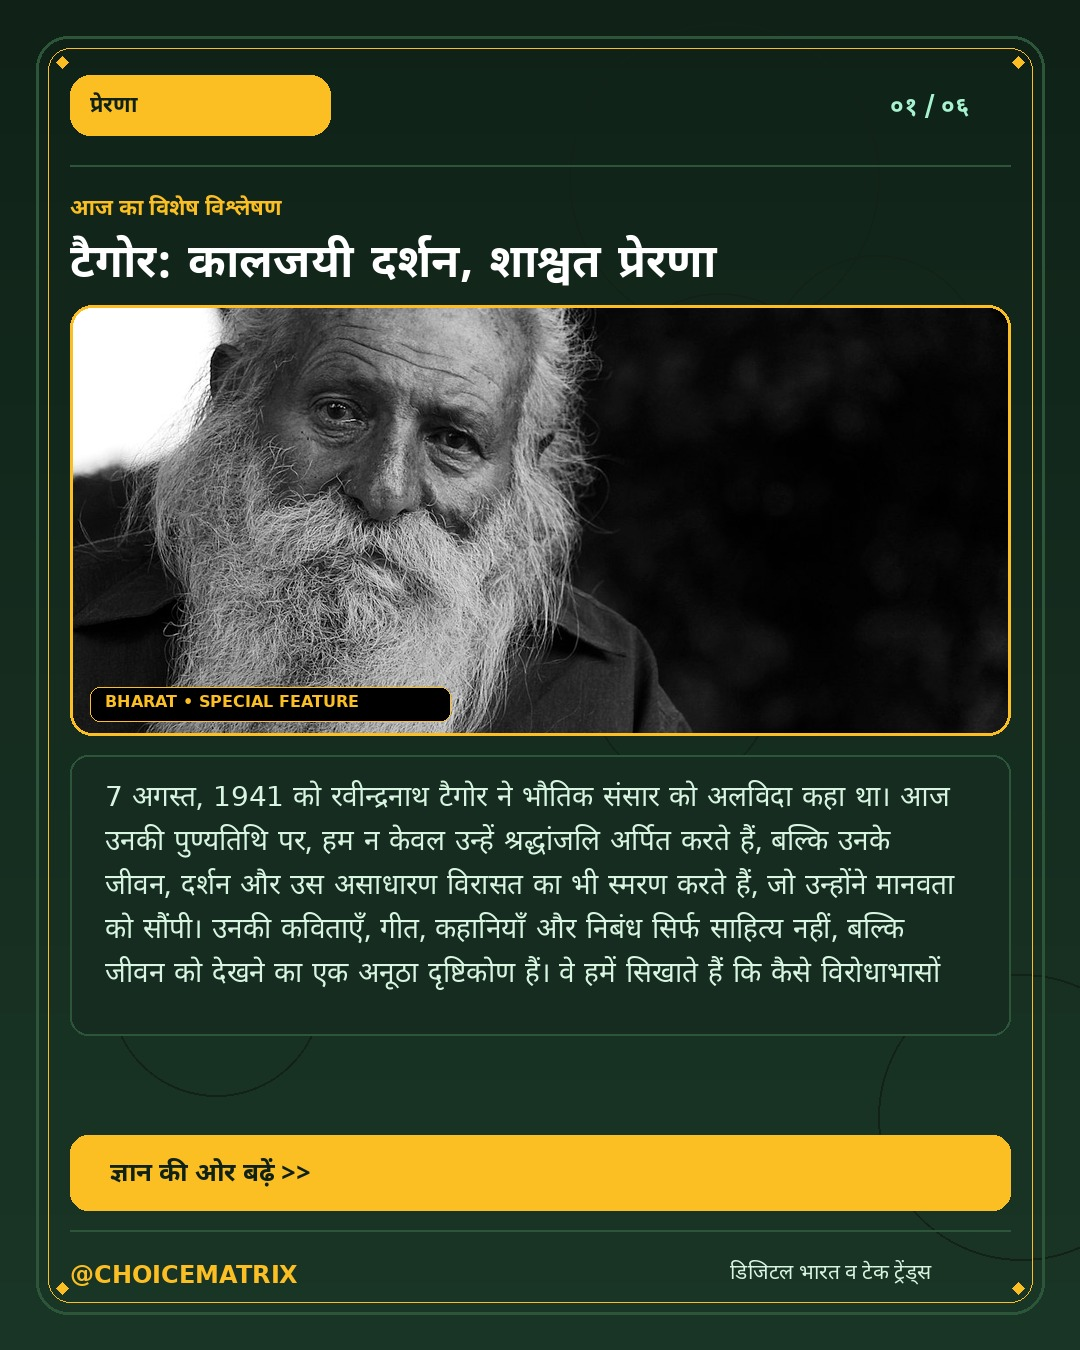
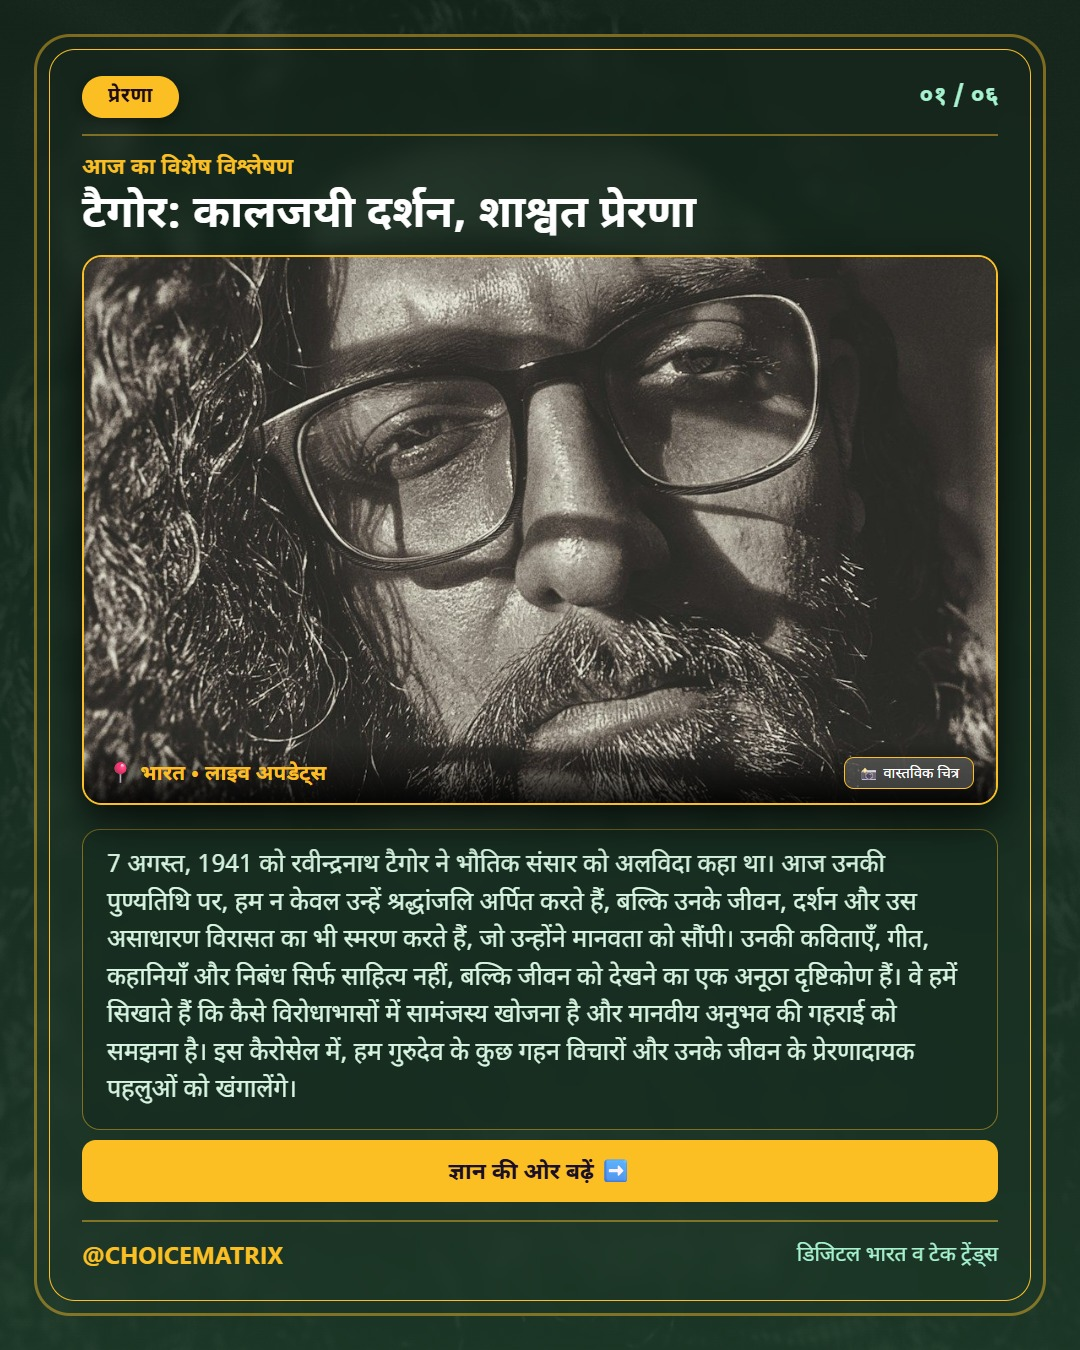
fix(crop): smart head-preserving card fit and landscape orientation for photos

diff --git a/autopilot.py b/autopilot.py
@@ -47,25 +47,66 @@ TIMEOUT = 20
 UNSPLASH_CACHE = ROOT / "state" / "unsplash_cache"
 
 
-def resize_and_crop(photo: Image.Image, W: int, H: int) -> Image.Image:
-    pw, ph = photo.size
-    target_aspect = W / H
-    current_aspect = pw / ph
-    if current_aspect > target_aspect:
-        new_w = int(ph * target_aspect)
-        left = (pw - new_w) // 2
-        photo = photo.crop((left, 0, left + new_w, ph))
-    else:
-        new_h = int(pw / target_aspect)
-        top = (ph - new_h) // 2
-        photo = photo.crop((0, top, pw, top + new_h))
-    return photo.resize((W, H), Image.Resampling.LANCZOS)
+def resize_and_crop(photo: Image.Image, W: int, H: int, centering: tuple = (0.5, 0.15)) -> Image.Image:
+    """Smart top-weighted image fitting to keep heads, faces, and top subjects 100% in view without cropping."""
+    try:
+        from PIL import ImageOps
+        return ImageOps.fit(photo, (int(W), int(H)), method=Image.Resampling.LANCZOS, centering=centering)
+    except Exception:
+        pw, ph = photo.size
+        target_aspect = W / H
+        current_aspect = pw / ph
+        if current_aspect > target_aspect:
+            new_w = int(ph * target_aspect)
+            left = int((pw - new_w) * centering[0])
+            photo = photo.crop((left, 0, left + new_w, ph))
+        else:
+            new_h = int(pw / target_aspect)
+            top = max(0, int((ph - new_h) * centering[1]))
+            photo = photo.crop((0, top, pw, top + new_h))
+        return photo.resize((int(W), int(H)), Image.Resampling.LANCZOS)
 
 
-def fetch_unsplash_image(query: str, W: int = 1080, H: int = 1350, used_ids: set | None = None) -> Image.Image | None:
-    """Fetch high-res photo from Unsplash matching query, with curated fallback."""
+def smart_card_fit(photo: Image.Image, W: int, H: int) -> Image.Image:
+    """Intelligently fit photo into card box without ever cutting off heads, faces, or subjects.
+    - If photo is wide (aspect >= 1.35): uses top-anchored crop (centering 0.5, 0.08) keeping 92% headroom.
+    - If photo is portrait/square (aspect < 1.35): displays full un-cropped subject centered with frosted ambient blur backdrop!
+    """
+    try:
+        from PIL import ImageFilter, ImageEnhance, ImageOps
+        pw, ph = photo.size
+        current_aspect = pw / ph
+        
+        if current_aspect >= 1.35:
+            return ImageOps.fit(photo, (int(W), int(H)), method=Image.Resampling.LANCZOS, centering=(0.5, 0.08))
+        
+        bg = ImageOps.fit(photo, (int(W), int(H)), method=Image.Resampling.LANCZOS, centering=(0.5, 0.15))
+        bg = bg.filter(ImageFilter.GaussianBlur(radius=24))
+        bg = ImageEnhance.Brightness(bg).enhance(0.45)
+        
+        scale = H / ph
+        fg_w = int(pw * scale)
+        fg_h = int(ph * scale)
+        if fg_w > W:
+            scale = W / pw
+            fg_w = int(pw * scale)
+            fg_h = int(ph * scale)
+        
+        fg = photo.resize((max(1, fg_w), max(1, fg_h)), Image.Resampling.LANCZOS)
+        paste_x = (int(W) - fg_w) // 2
+        paste_y = (int(H) - fg_h) // 2
+        bg.paste(fg, (paste_x, paste_y))
+        return bg
+    except Exception:
+        return resize_and_crop(photo, int(W), int(H), centering=(0.5, 0.08))
+
+def fetch_unsplash_image(query: str, W: int = 1080, H: int = 1350, used_ids: set | None = None, orientation: str | None = None) -> Image.Image | None:
+    """Fetch high-res photo from Unsplash matching query with orientation control and smart top-anchored framing."""
     UNSPLASH_CACHE.mkdir(parents=True, exist_ok=True)
     access_key = getenv("UNSPLASH_ACCESS_KEY")
+
+    if orientation is None:
+        orientation = "landscape" if W > H else "portrait"
 
     # 1. Clean query of noise tags (e.g. 'STEP 01', 'HOT TREND', etc.)
     raw_query = query or "technology"
@@ -73,9 +114,11 @@ def fetch_unsplash_image(query: str, W: int = 1080, H: int = 1350, used_ids: set
     cleaned = re.sub(r"[^\w\s]", "", cleaned).strip()
     if not cleaned or len(cleaned) < 3:
         cleaned = "technology future"
+    if orientation == "landscape":
+        cleaned = re.sub(r"\b(portrait|headshot|close\s*up|macro\s*face)\b", "cinematic scene", cleaned, flags=re.IGNORECASE).strip()
 
-    cache_key = hashlib.sha256(cleaned.lower().encode()).hexdigest()[:12]
-    cached_file = UNSPLASH_CACHE / f"v2_{cache_key}.jpg"
+    cache_key = hashlib.sha256(f"{cleaned.lower()}_{orientation}_{W}x{H}".encode()).hexdigest()[:12]
+    cached_file = UNSPLASH_CACHE / f"v3_{cache_key}.jpg"
     if cached_file.exists() and (used_ids is None or len(used_ids) == 0):
         try:
             return Image.open(cached_file).convert("RGB")
@@ -97,7 +140,7 @@ def fetch_unsplash_image(query: str, W: int = 1080, H: int = 1350, used_ids: set
         for cq in candidate_queries:
             try:
                 url = "https://api.unsplash.com/search/photos"
-                params = {"query": cq, "per_page": 10, "order_by": "relevant"}
+                params = {"query": cq, "per_page": 10, "order_by": "relevant", "orientation": orientation}
                 headers = {"Authorization": f"Client-ID {access_key}"}
                 r = requests.get(url, params=params, headers=headers, timeout=6)
                 if r.status_code == 200:
@@ -1044,12 +1087,12 @@ def wrap_mixed_by_pixels(draw, text, size, max_width, bold=True, language="Benga
     return lines
 
 
-def paste_rounded_image(base_img, photo, box, radius=20, border_color=None, border_width=2):
-    """Composite a high-res photo with antialiased rounded corners and border onto the canvas."""
+def paste_rounded_image(base_img, photo, box, radius=20, border_color=None, border_width=2, centering: tuple = (0.5, 0.15)):
+    """Composite a high-res photo with antialiased rounded corners and border onto the canvas with zero head cutting."""
     bx, by, bw, bh = box
     if photo is None or bw <= 0 or bh <= 0:
         return
-    cropped = resize_and_crop(photo, int(bw), int(bh))
+    cropped = smart_card_fit(photo, int(bw), int(bh))
     mask = Image.new("L", (int(bw), int(bh)), 0)
     draw_mask = ImageDraw.Draw(mask)
     draw_mask.rounded_rectangle((0, 0, int(bw), int(bh)), radius=int(radius), fill=255)
@@ -1760,13 +1803,14 @@ def render_carousel_slides(date_key, revision, settings, item, slot="afternoon",
 
         # Fetch distinct high-res photo for THIS slide's content and atmospheric background
         slide_img_query = slide.get("image_query") or f"{item.get('unsplash_query', '')} {tag}".strip()
-        bg_photo = fetch_unsplash_image(f"{slide_img_query} atmospheric", W, H, used_ids=used_ids)
+        bg_photo = fetch_unsplash_image(f"{slide_img_query} atmospheric", W, H, used_ids=used_ids, orientation="portrait")
         if not bg_photo:
-            bg_photo = fetch_unsplash_image(item.get("title", "technology abstract"), W, H, used_ids=used_ids)
+            bg_photo = fetch_unsplash_image(item.get("title", "technology abstract"), W, H, used_ids=used_ids, orientation="portrait")
 
-        content_photo = fetch_unsplash_image(slide_img_query or item.get("title", "technology"), 940, 430, used_ids=used_ids)
+        card_h = 460 if slide_num == 1 else 410
+        content_photo = fetch_unsplash_image(slide_img_query or item.get("title", "technology"), 940, card_h, used_ids=used_ids, orientation="landscape")
         if not content_photo:
-            content_photo = fetch_unsplash_image("modern technology future", 940, 430, used_ids=used_ids)
+            content_photo = fetch_unsplash_image("modern technology future", 940, card_h, used_ids=used_ids, orientation="landscape")
 
         # 1. Composite full-bleed atmospheric background photo with themed gradient overlay
         overlay = Image.new("RGBA", (W, H))
@@ -1848,8 +1892,8 @@ def render_carousel_slides(date_key, revision, settings, item, slot="afternoon",
             y += 12
 
             # PROMINENT COVER HERO PHOTO
-            photo_h = 430
-            paste_rounded_image(image, content_photo, (70, y, W - 140, photo_h), radius=22, border_color=theme["accent"], border_width=3)
+            photo_h = 460
+            paste_rounded_image(image, content_photo, (70, y, W - 140, photo_h), radius=22, border_color=theme["accent"], border_width=3, centering=(0.5, 0.15))
             loc_badge = "WEST BENGAL • SPECIAL FEATURE" if language == "Bengali" else ("BHARAT • SPECIAL FEATURE" if language == "Hindi" else "GLOBAL TECH • LIVE REPORT")
             draw.rounded_rectangle((90, y + photo_h - 48, 90 + 380, y + photo_h - 14), radius=10, fill=(0, 0, 0), outline=theme["accent"], width=1)
             draw_design_icon(draw, 108, y + photo_h - 31, design_mode, theme["accent"], size=5)
@@ -1936,8 +1980,8 @@ def render_carousel_slides(date_key, revision, settings, item, slot="afternoon",
             y += 10
 
             # DEDICATED CONTENT PHOTO FOR THIS STEP
-            photo_h = 390
-            paste_rounded_image(image, content_photo, (70, y, W - 140, photo_h), radius=20, border_color=theme["accent"], border_width=3)
+            photo_h = 410
+            paste_rounded_image(image, content_photo, (70, y, W - 140, photo_h), radius=20, border_color=theme["accent"], border_width=3, centering=(0.5, 0.15))
             y += photo_h + 18
 
             # Explanation / Breakdown Card below photo
